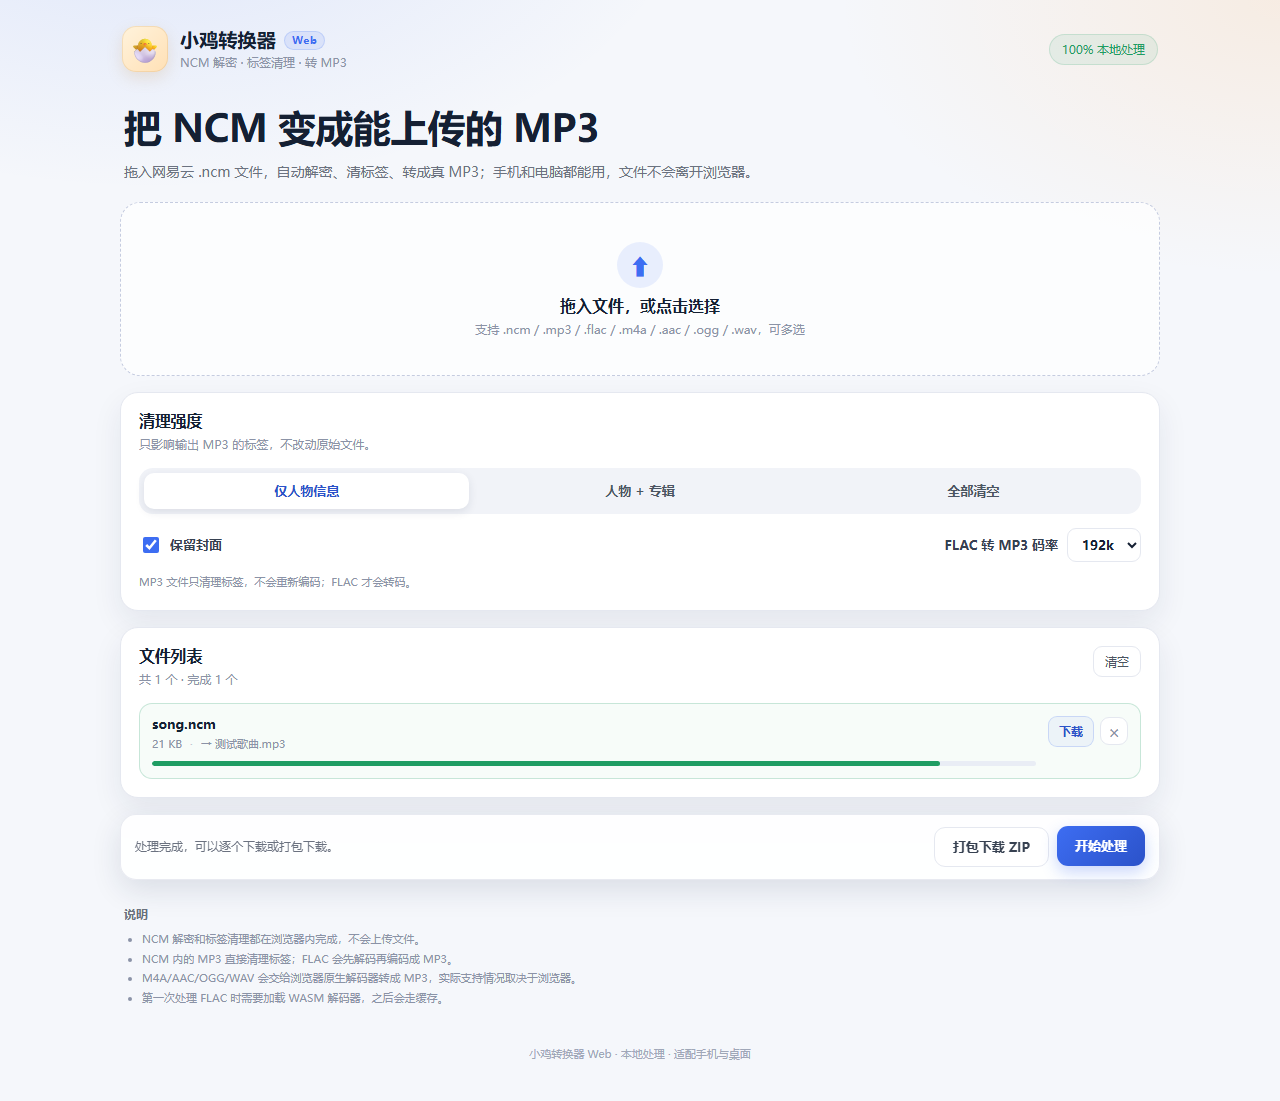
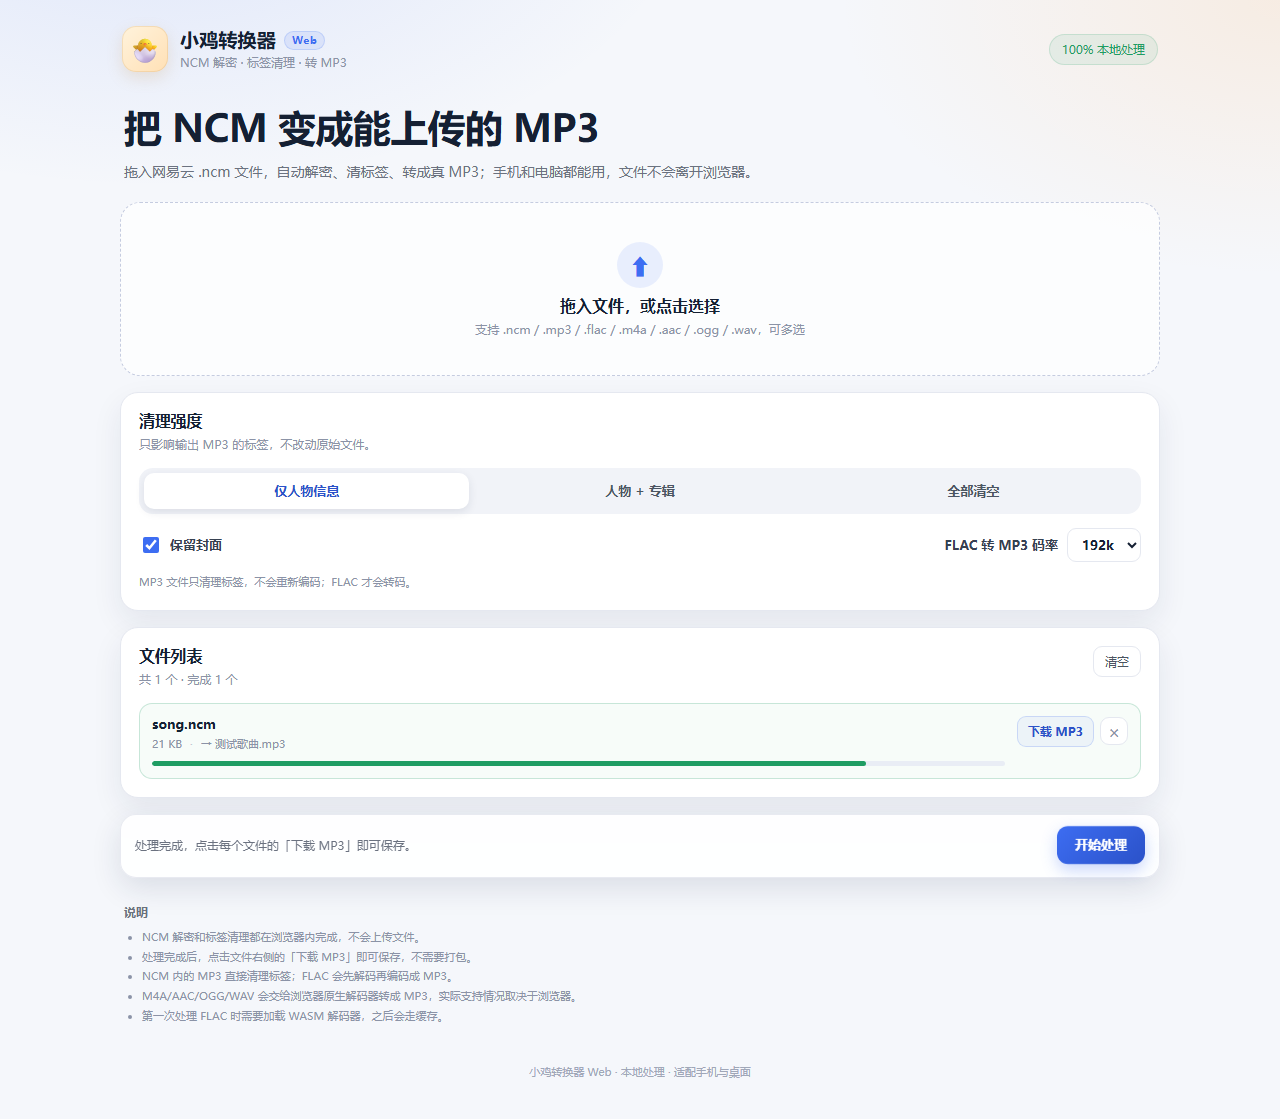
Web 版改为逐个一键下载，移除 ZIP 打包

diff --git a/web/src/App.tsx b/web/src/App.tsx
@@ -1,5 +1,4 @@
 import { useEffect, useRef, useState } from 'react';
-import JSZip from 'jszip';
 import type { NcmCover, NcmMeta } from './core/ncm';
 import { sniffAudioFormat } from './core/ncm';
 import { startsWith } from './core/bytes';
@@ -88,23 +87,6 @@ function downloadBlob(blob: Blob, filename: string): void {
   anchor.click();
   anchor.remove();
   setTimeout(() => URL.revokeObjectURL(url), 2000);
-}
-
-function uniqueName(name: string, used: Set<string>): string {
-  if (!used.has(name)) {
-    used.add(name);
-    return name;
-  }
-  const base = name.replace(/\.mp3$/i, '');
-  for (let i = 2; i < 1000; i++) {
-    const candidate = `${base} (${i}).mp3`;
-    if (!used.has(candidate)) {
-      used.add(candidate);
-      return candidate;
-    }
-  }
-  used.add(name);
-  return name;
 }
 
 export default function App() {
@@ -301,30 +283,13 @@ export default function App() {
     }
 
     setBusy(false);
-    setNotice('处理完成，可以逐个下载或打包下载。');
+    setNotice('处理完成，点击每个文件的「下载 MP3」即可保存。');
   }
 
   function downloadOne(job: Job) {
     if (!job.result) return;
     const blob = new Blob([job.result.bytes.buffer as ArrayBuffer], { type: 'audio/mpeg' });
     downloadBlob(blob, job.result.name);
-  }
-
-  async function downloadAll() {
-    const finished = jobsRef.current.filter((job) => job.status === 'done' && job.result);
-    if (!finished.length) {
-      setNotice('还没有可下载的结果。');
-      return;
-    }
-    const zip = new JSZip();
-    const used = new Set<string>();
-    for (const job of finished) {
-      const result = job.result;
-      if (!result) continue;
-      zip.file(uniqueName(result.name, used), result.bytes);
-    }
-    const blob = await zip.generateAsync({ type: 'blob', compression: 'STORE' });
-    downloadBlob(blob, '小鸡转换器_输出.zip');
   }
 
   function removeJob(id: number) {
@@ -483,7 +448,7 @@ export default function App() {
                   <div className="file-actions">
                     {job.status === 'done' ? (
                       <button type="button" className="mini" onClick={() => downloadOne(job)}>
-                        下载
+                        下载 MP3
                       </button>
                     ) : null}
                     <button
@@ -505,9 +470,6 @@ export default function App() {
         <div className="action-bar">
           <div className="notice">{notice}</div>
           <div className="buttons">
-            <button type="button" className="secondary" onClick={downloadAll} disabled={!doneCount}>
-              打包下载 ZIP
-            </button>
             <button type="button" className="primary" onClick={processAll} disabled={busy || !jobs.length}>
               {busy ? '处理中…' : '开始处理'}
             </button>
@@ -518,6 +480,7 @@ export default function App() {
           <h3>说明</h3>
           <ul>
             <li>NCM 解密和标签清理都在浏览器内完成，不会上传文件。</li>
+            <li>处理完成后，点击文件右侧的「下载 MP3」即可保存，不需要打包。</li>
             <li>NCM 内的 MP3 直接清理标签；FLAC 会先解码再编码成 MP3。</li>
             <li>M4A/AAC/OGG/WAV 会交给浏览器原生解码器转成 MP3，实际支持情况取决于浏览器。</li>
             <li>第一次处理 FLAC 时需要加载 WASM 解码器，之后会走缓存。</li>

diff --git a/web/src/styles.css b/web/src/styles.css
@@ -654,7 +654,7 @@ footer {
 
   .buttons {
     display: grid;
-    grid-template-columns: 1fr 1fr;
+    grid-template-columns: 1fr;
   }
 
   .primary,

diff --git a/web/README.md b/web/README.md
@@ -13,7 +13,7 @@
 - FLAC：WASM 解码 → lamejs 编码 MP3（可选 128/192/256/320k）
 - M4A/AAC/OGG/WAV：通过浏览器原生 `AudioContext` 解码后转 MP3（取决于浏览器支持）
 - 清理强度：仅人物信息 / 人物 + 专辑 / 全部清空
-- 保留封面、批量处理、单个下载、ZIP 打包下载
+- 保留封面、批量处理、逐个一键下载
 - 响应式布局，适配桌面和手机
 - 所有处理在 Web Worker 内完成，不阻塞界面
 
@@ -80,7 +80,7 @@ npm test
 
 - Vite + React + TypeScript
 - Web Worker + `@wasm-audio-decoders/flac` + `@breezystack/lamejs`
-- `aes-js`、`browser-id3-writer`、`jszip`
+- `aes-js`、`browser-id3-writer`
 
 ## 限制
 

diff --git a/CHANGELOG.md b/CHANGELOG.md
@@ -6,7 +6,7 @@
 
 - 纯前端 Web 版（`web/`）：浏览器内 NCM 解密、标签清理、FLAC/MP3/M4A/AAC/OGG/WAV 转 MP3。
 - NCM 内 MP3/FLAC 在 Worker 内处理；NCM 内 M4A/AAC/OGG/WAV 解密后交给浏览器原生解码再转 MP3。
-- 响应式界面、批量处理、单个下载与 ZIP 打包下载。
+- 响应式界面、批量处理、逐个一键下载。
 - 全部处理在本地 Web Worker 中完成，文件不上传服务器。
 
 ## 2026-11-12

diff --git a/README.md b/README.md
@@ -50,7 +50,7 @@
 - NCM 解密、标签清理、FLAC/MP3/M4A/AAC/OGG/WAV 转 MP3
 - 文件只在浏览器本地处理，不上传服务器
 - 响应式布局，手机和桌面都能用
-- 支持批量处理和 ZIP 打包下载
+- 支持批量处理和逐个一键下载
 
 本地开发：
 
